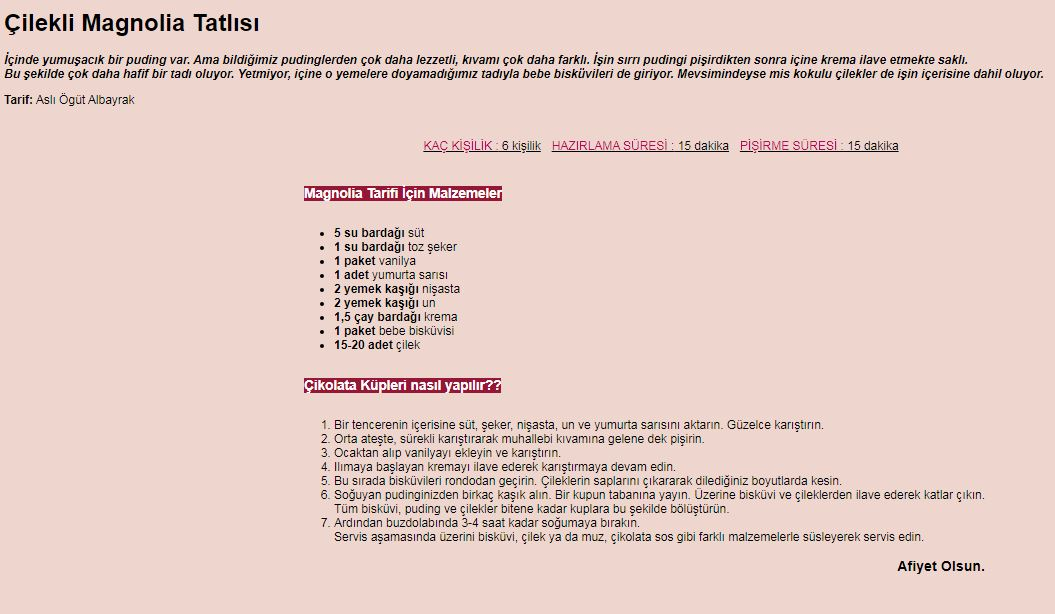
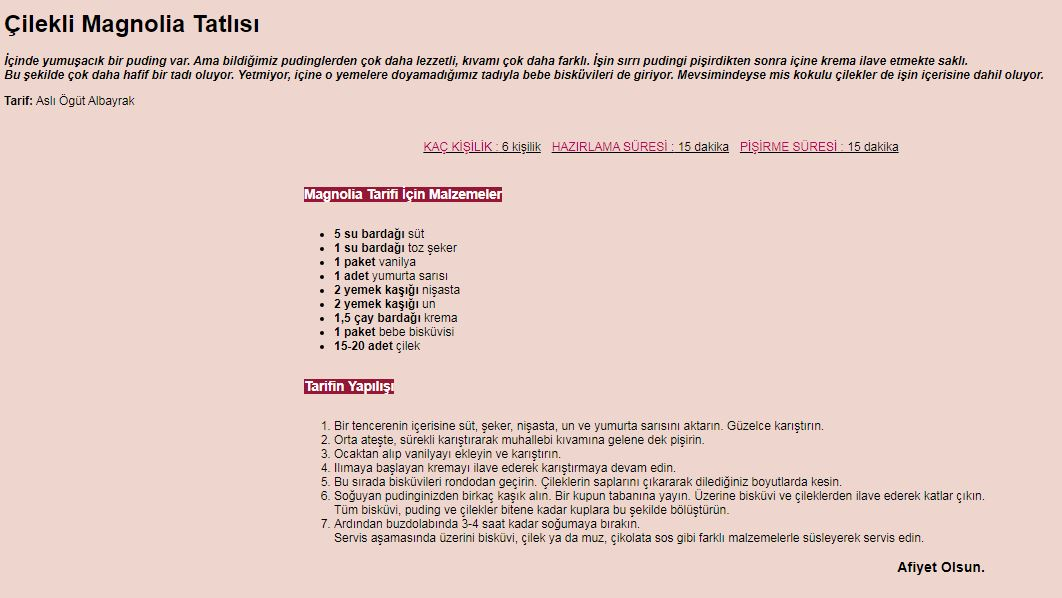
ilk yorum

diff --git a/index.html b/index.html
@@ -69,7 +69,7 @@
         
     </article>
     <article>
-        <h3 style="background-color: #961636; color: rgb(255, 255, 255); display: inline-block; font-size: 18px;">Çikolata Küpleri nasıl yapılır??</h3>
+        <h3 style="background-color: #961636; color: rgb(255, 255, 255); display: inline-block; font-size: 18px;">Tarifin Yapılışı</h3>
         <ol>
             <li>Bir tencerenin içerisine süt, şeker, nişasta, un ve yumurta sarısını aktarın. Güzelce karıştırın.</li>
             <li>Orta ateşte, sürekli karıştırarak muhallebi kıvamına gelene dek pişirin.</li>
